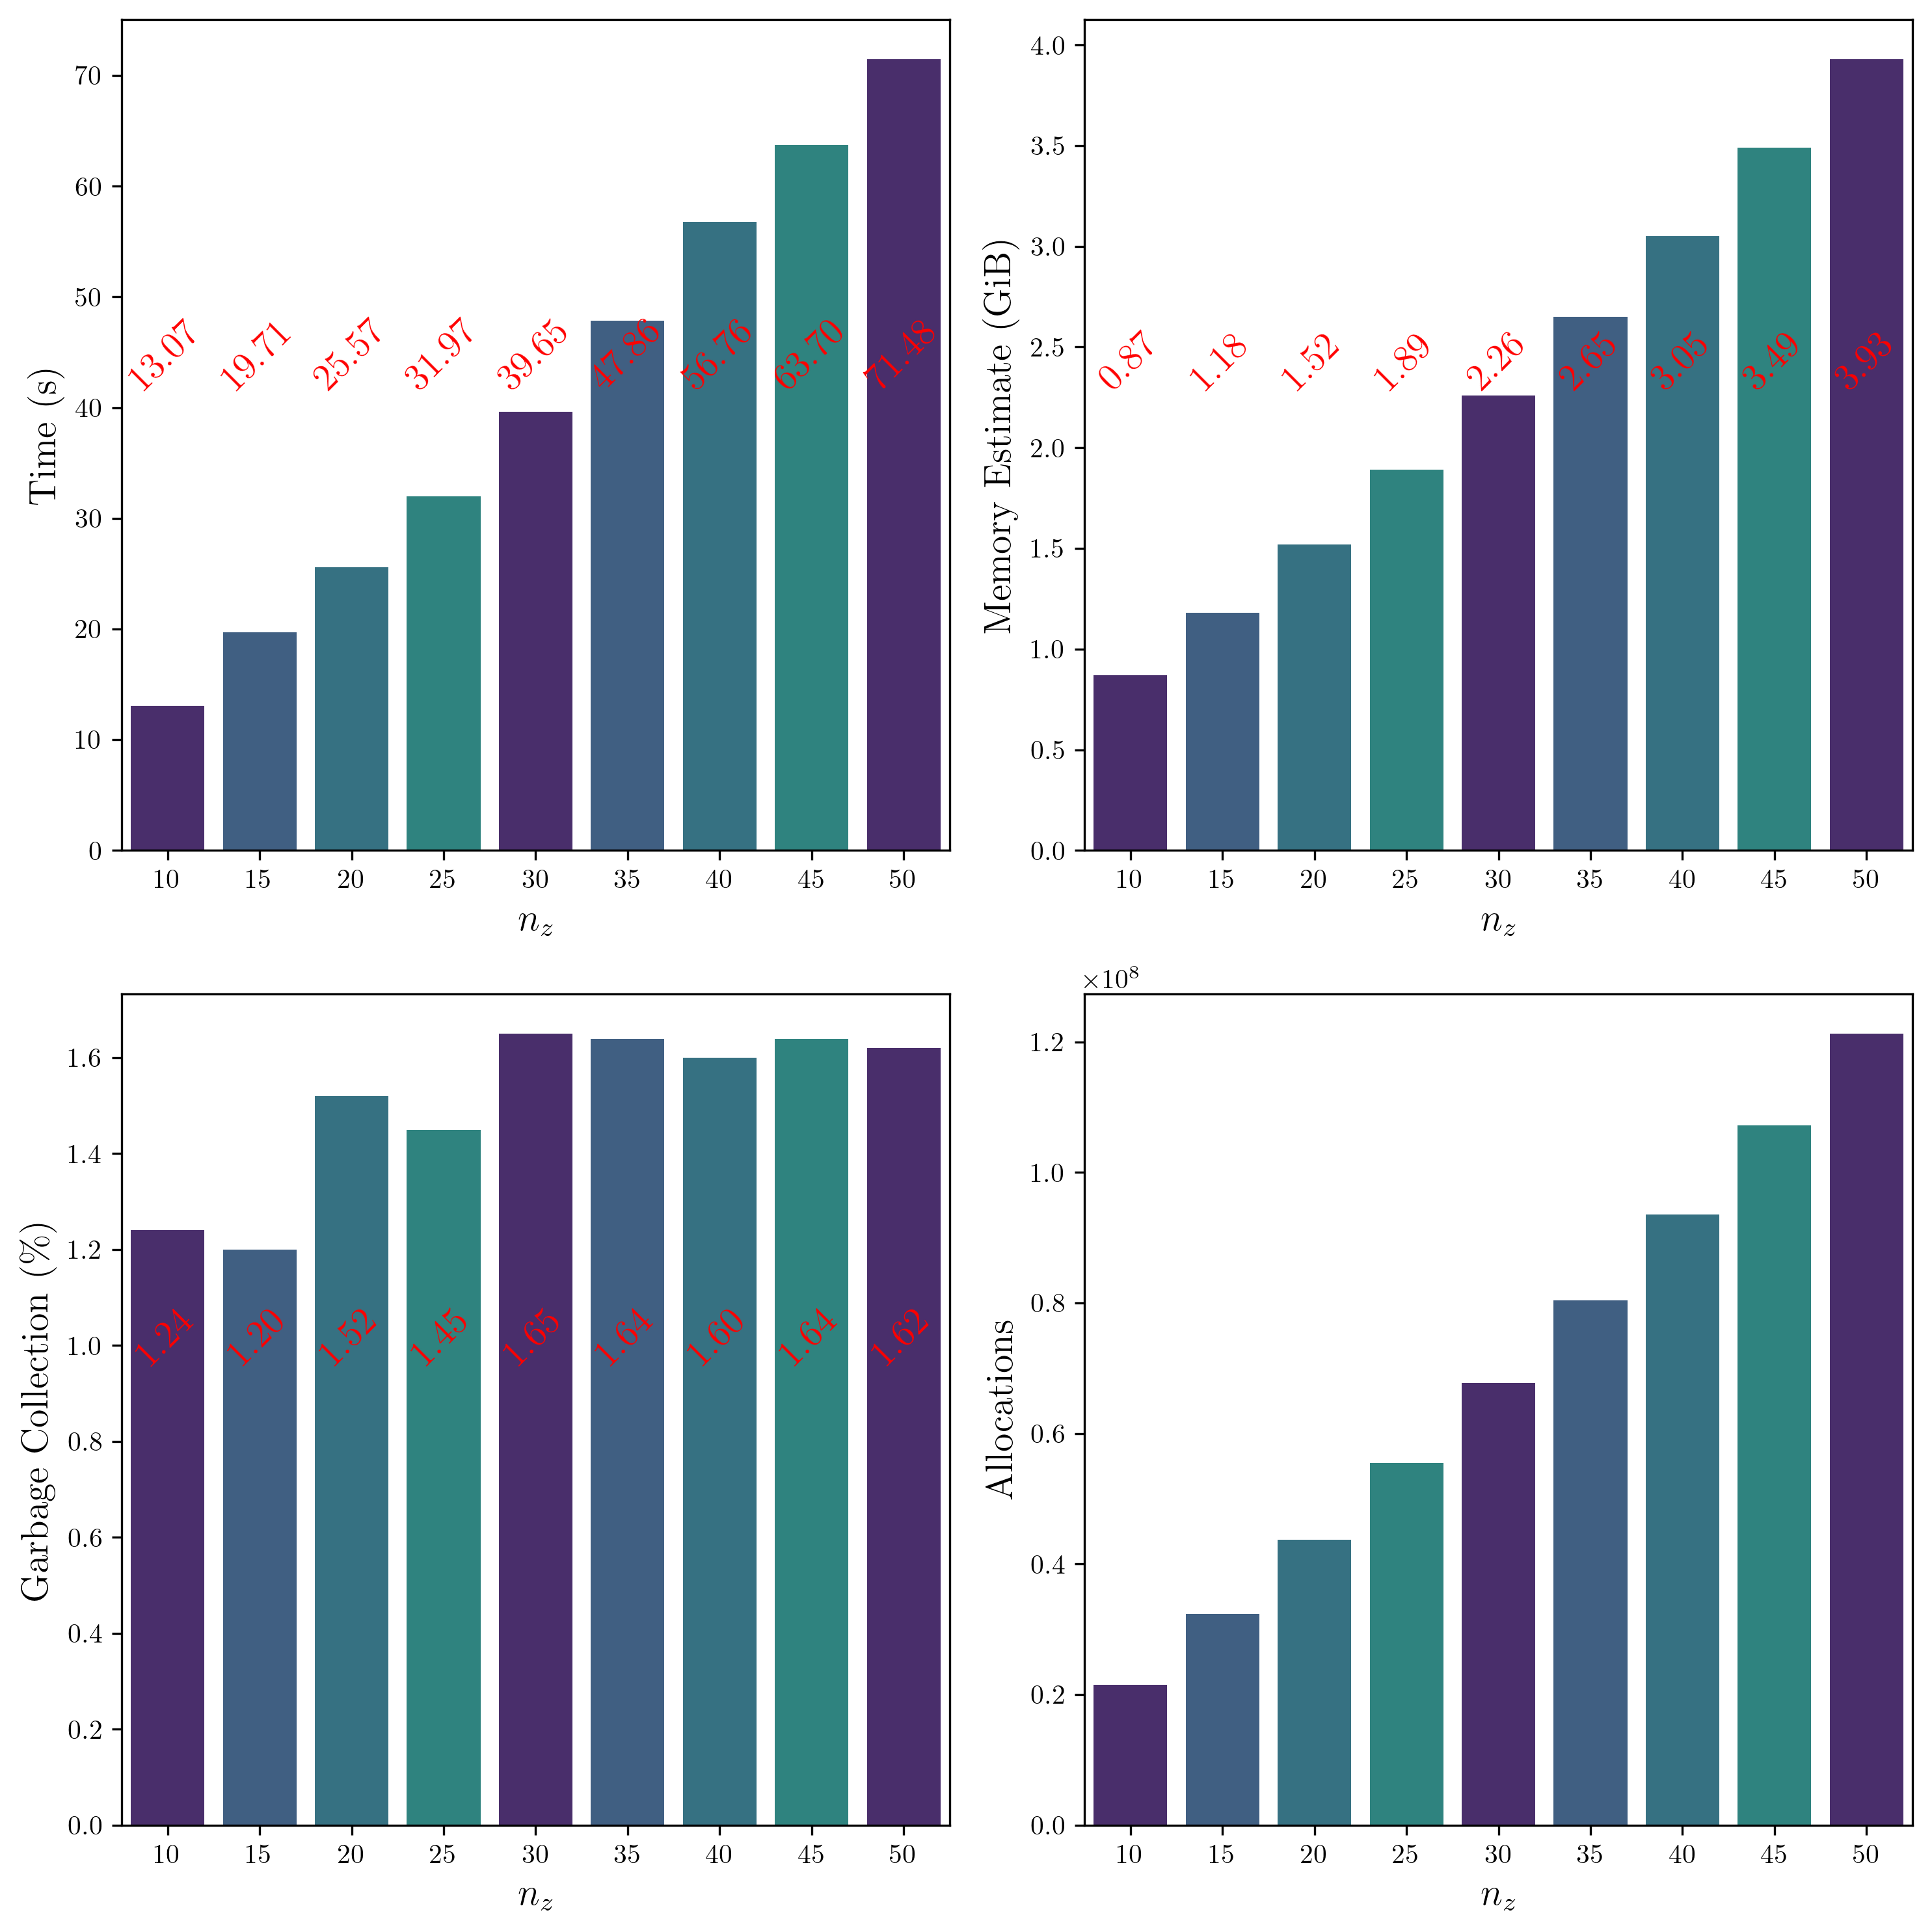
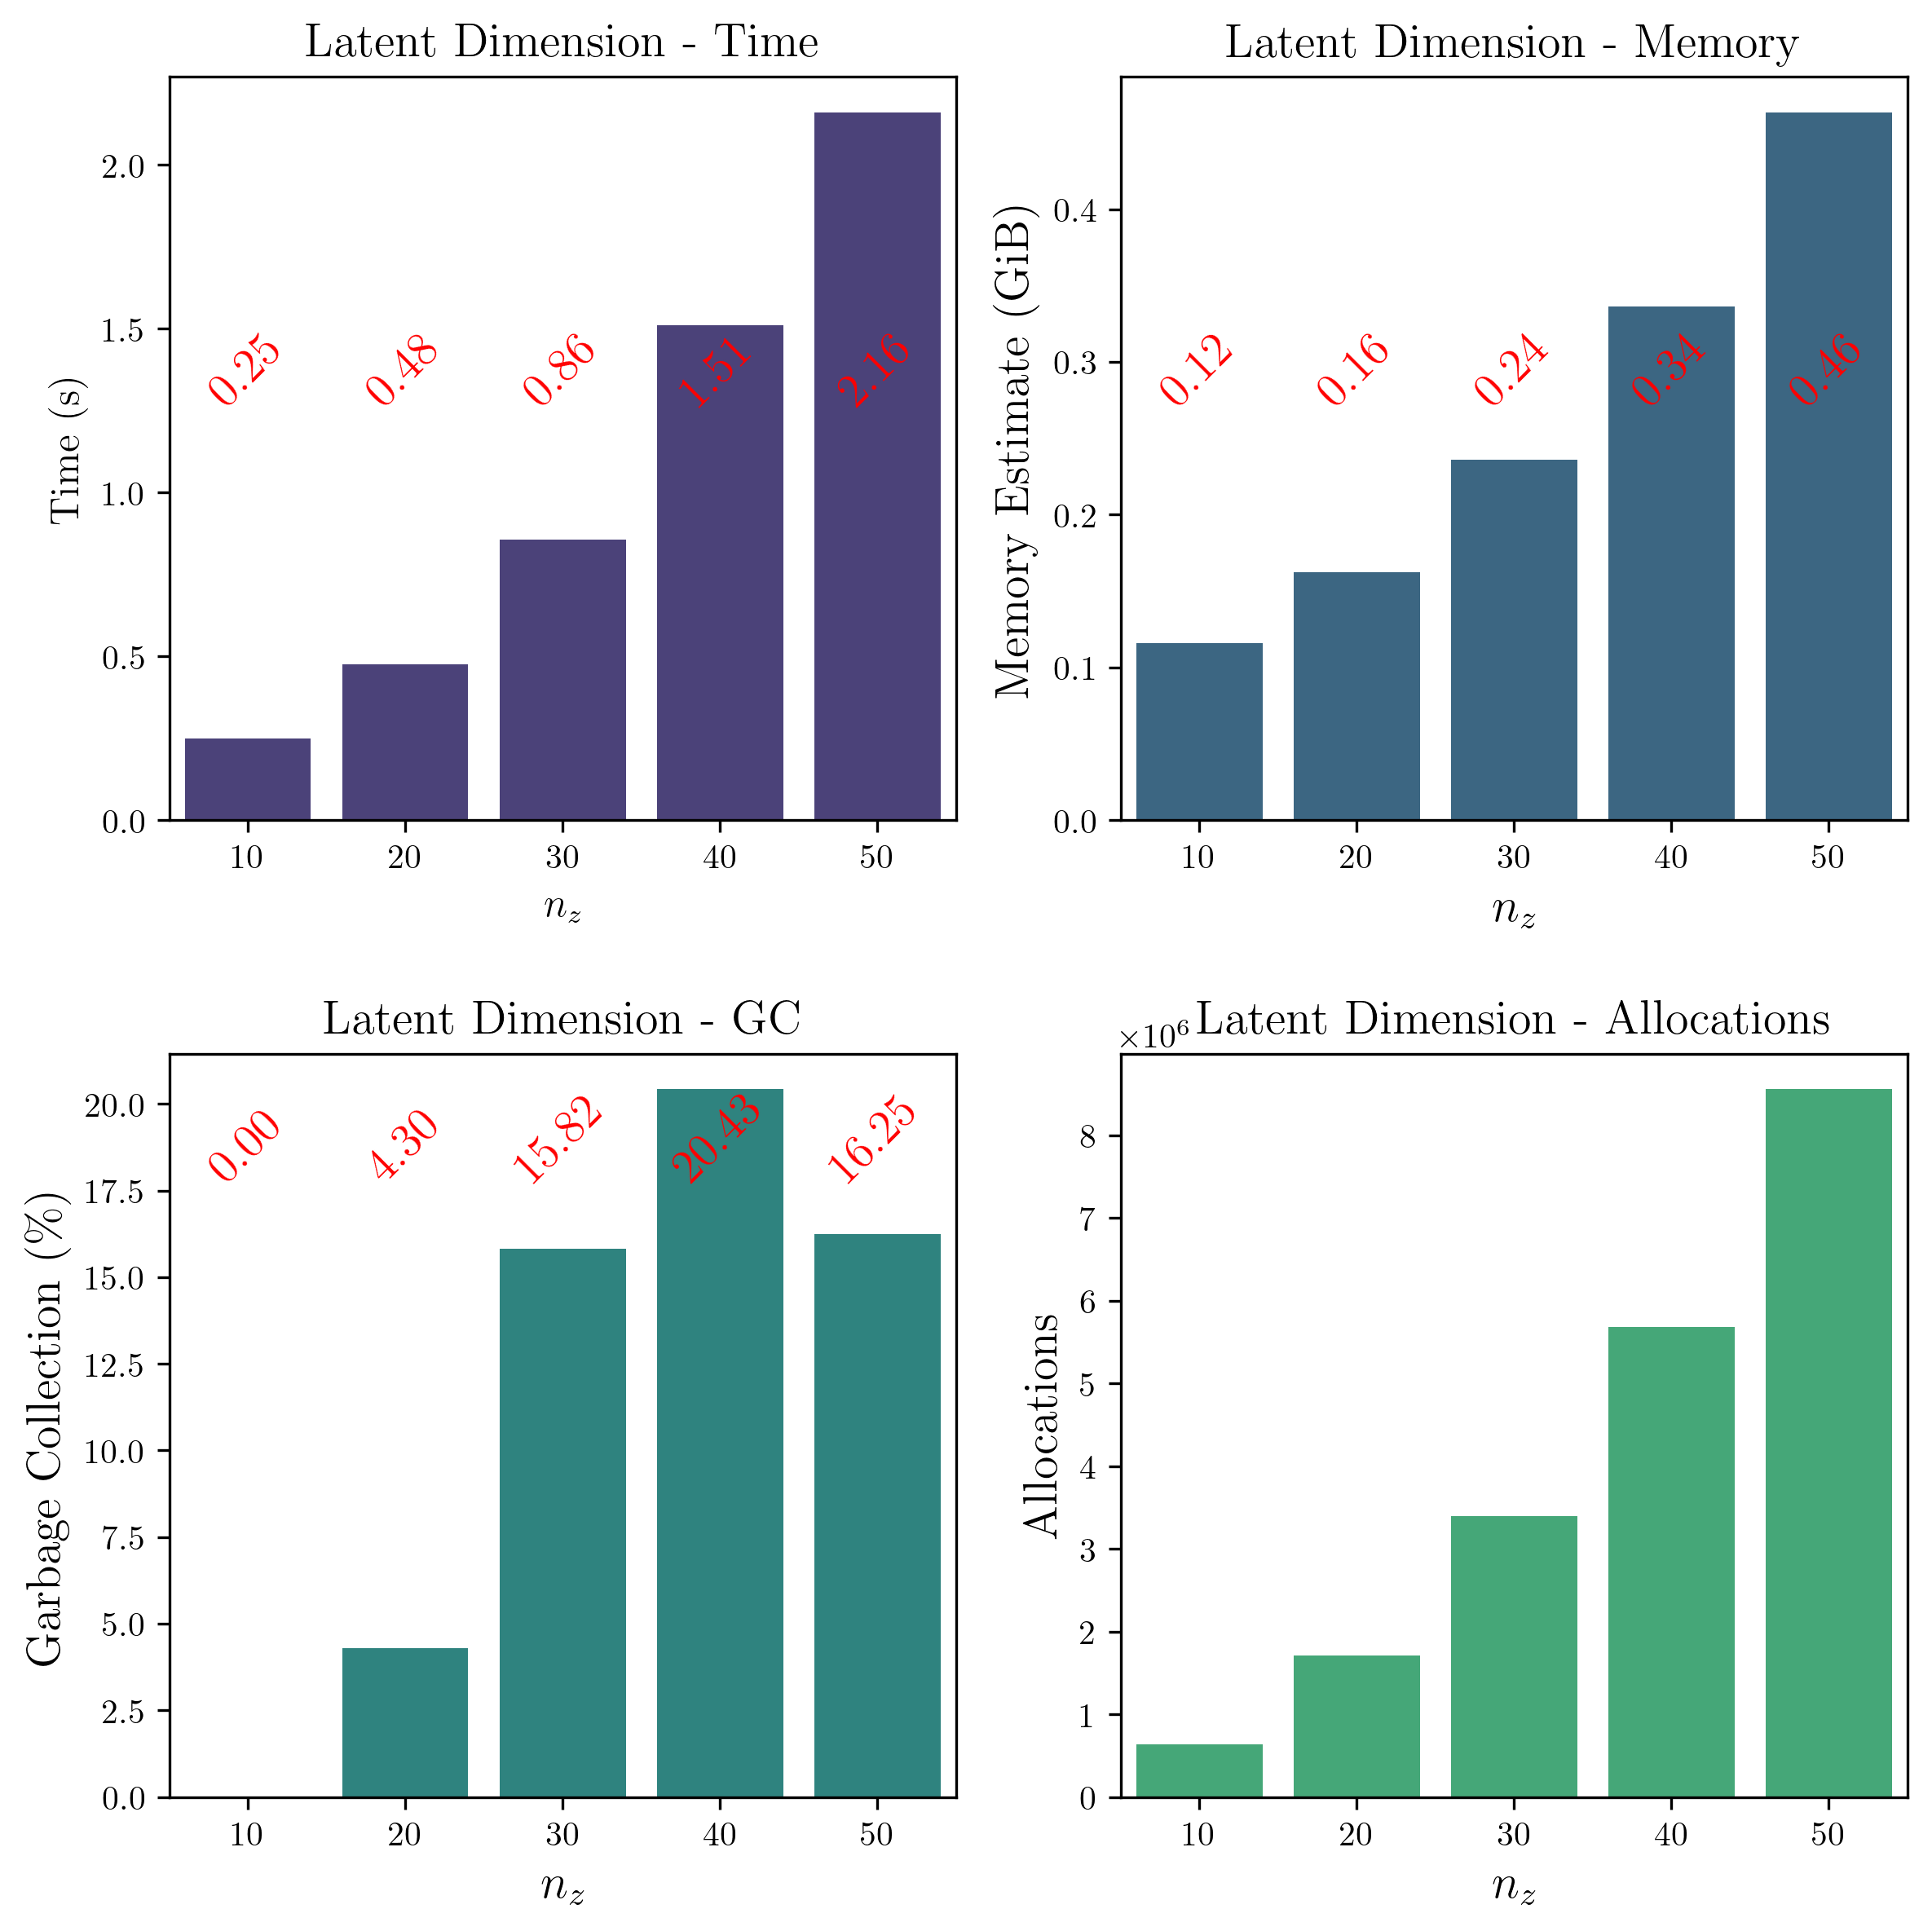
bench marks

diff --git a/plotting/benchmark/plot_cost.py b/plotting/benchmark/plot_cost.py
@@ -1,6 +1,7 @@
 import pandas as pd
 import seaborn as sns
 import matplotlib.pyplot as plt
+import numpy as np
 
 plt.rcParams.update({
     'text.usetex': True, 
@@ -10,39 +11,59 @@ plt.rcParams.update({
     'text.latex.preamble': r'\usepackage{amsmath} \usepackage{amsfonts} \usepackage{amssymb} \usepackage{bm} \newcommand{\probP}{\text{I\kern-0.15em P}}'  
 })
 
-latent_dim = pd.DataFrame({
-    r"$n_z$" : [10, 15, 20, 25, 30, 35, 40, 45, 50],
-    "Time (s)" : [13.075, 19.707, 25.572, 31.971, 39.648, 47.857, 56.762, 63.697, 71.476],
-    "Memory Estimate (GiB)" : [0.870, 1.18, 1.52, 1.89, 2.26, 2.65, 3.05, 3.49, 3.93],
-    "Garbage Collection (%)" : [1.24, 1.20, 1.52, 1.45, 1.65, 1.64, 1.60, 1.64, 1.62], 
-    "Allocations" : [21500020, 32371238, 43698173, 55485415, 67724846, 80420074, 93571538, 107179137, 121242782],
-})
+# Read data from CSV files
+latent_dim_df = pd.read_csv('benches/results/latent_dim.csv')
+temperatures_df = pd.read_csv('benches/results/temperatures.csv')
+prior_steps_df = pd.read_csv('benches/results/prior_steps.csv')
+its_single_df = pd.read_csv('benches/results/ITS_single.csv')
 
+# Extract reference values
 mala_steps_ref = {
-    "Time (s)": 2.972,
-    "Memory Estimate (GiB)": 1.66,
-    "Garbage Collection (%)": 6.68,
-    "Allocations": 1203094
+    "Time (s)": its_single_df.iloc[0]['time_mean'],
+    "Memory Estimate (GiB)": its_single_df.iloc[0]['memory_estimate'],
+    "Garbage Collection (%)": its_single_df.iloc[0]['gc_percent'],
+    "Allocations": its_single_df.iloc[0]['allocations']
 }
 
+# Prepare data for plotting
+latent_dim = pd.DataFrame({
+    r"$n_z$": latent_dim_df['n_z'],
+    "Time (s)": latent_dim_df['time_mean'],
+    "Memory Estimate (GiB)": latent_dim_df['memory_estimate'],
+    "Garbage Collection (%)": latent_dim_df['gc_percent'],
+    "Allocations": latent_dim_df['allocations']
+})
+
 mala_steps = pd.DataFrame({
-    r"$N_{t},\\(N_{\text{local}}=20)$" : [2, 3, 4, 5, 6, 7, 8, 9, 10],
-    "Time (s)" : [6.482, 10.111, 13.434, 17.672, 21.740, 25.657, 29.173, 33.484, 37.891],
-    "Memory Estimate (GiB)" : [2.25, 2.85, 3.45, 4.04, 4.64, 5.24, 5.84, 6.43, 7.02],
-    "Garbage Collection (%)" : [1.87, 1.81, 1.74, 7.69, 8.03, 8.50, 7.82, 8.96, 9.12],
-    "Allocations" : [2133663, 3061363, 3989154, 4916228, 5933549, 6962088, 7989669, 9018787, 10047865],
+    r"$N_{t},\\(N_{\text{local}}=20)$": temperatures_df['N_t'],
+    "Time (s)": temperatures_df['time_mean'],
+    "Memory Estimate (GiB)": temperatures_df['memory_estimate'],
+    "Garbage Collection (%)": temperatures_df['gc_percent'],
+    "Allocations": temperatures_df['allocations']
 })
 
 prior_steps = pd.DataFrame({
-    "N_{prior},(N_t=1)": [10, 20, 30, 40, 50, 60, 80, 90, 100],
-    "Time (s)": [4.069, 4.132, 4.220, 4.230, 4.209, 4.163, 4.181, 4.222, 4.152],
-    "Memory Estimate (GiB)": [1.26, 1.26, 1.26, 1.26, 1.26, 1.26, 1.26, 1.26, 1.26],
-    "Allocations": [1275585, 1275990, 1275567, 1275563, 1275711, 1275724, 1275564, 1275559, 1275561]
+    r"$N_{prior},(N_t=1)$": prior_steps_df['N_l'],
+    "Time (s)": prior_steps_df['time_mean'],
+    "Memory Estimate (GiB)": prior_steps_df['memory_estimate'],
+    "Garbage Collection (%)": prior_steps_df['gc_percent'],
+    "Allocations": prior_steps_df['allocations']
 })
 
-keys = [r"$n_z$", r"$N_{t},\\(N_{\text{local}}=20)$"]
-colours = ["viridis", "cividis"]
-elevations = [0.545, 0.545]
+# Reference for prior_steps (from ITS_single)
+prior_steps_ref = {
+    "Time (s)": its_single_df.iloc[0]['time_mean'],
+    "Memory Estimate (GiB)": its_single_df.iloc[0]['memory_estimate'],
+    "Garbage Collection (%)": its_single_df.iloc[0]['gc_percent'],
+    "Allocations": its_single_df.iloc[0]['allocations']
+}
+
+keys = [r"$n_z$", r"$N_{t},\\(N_{\text{local}}=20)$", r"$N_{prior},(N_t=1)$"]
+colours = ["viridis", "cividis", "plasma"]
+elevations = [0.545, 0.6, 0.6]
+datasets = [latent_dim, mala_steps, prior_steps]
+references = [None, mala_steps_ref, prior_steps_ref]
+titles = ["Latent Dimension", "Power Posteriors", "Prior Steps"]
 
 def add_text_annotations(ax, round=False, elevation=0.45):
     for bar in ax.patches:
@@ -58,79 +79,98 @@ def add_text_annotations(ax, round=False, elevation=0.45):
             rotation=45, fontsize=14
         )
 
-for (idx, df) in enumerate([latent_dim, mala_steps]):
-    fig, axs = plt.subplots(2, 2, figsize=(10, 10))
-    selected_colors = sns.color_palette(colours[idx], len("Time (s)") + 1)
-    colors = [selected_colors[0], selected_colors[2], selected_colors[3], selected_colors[4]]
+for (idx, (df, ref, title)) in enumerate(zip(datasets, references, titles)):
+    fig, axs = plt.subplots(2, 2, figsize=(8, 8))
+    
+    colors = sns.color_palette(colours[idx], n_colors=len(df))
 
     sns.barplot(
         x = keys[idx],
         y = "Time (s)",
         data = df,
         ax = axs[0, 0],
-        palette = colors
+        color=colors[0]
     )
     add_text_annotations(axs[0, 0], round=False, elevation=elevations[idx])
     
-    if idx == 1:  
-        axs[0, 0].axhline(y=mala_steps_ref["Time (s)"], color='red', linestyle='--', 
-                          label='MLE criterion with single posterior ULA sampling')
+    if ref is not None:  
+        if idx == 1:  # MALA steps plot
+            axs[0, 0].axhline(y=ref["Time (s)"], color='red', linestyle='--', 
+                              label='Reference MLE criterion\nwith single posterior\nULA sampling')
+        else:
+            axs[0, 0].axhline(y=ref["Time (s)"], color='red', linestyle='--', 
+                              label='Reference ITS\nwith Mixture Prior')
         axs[0, 0].legend()
 
     axs[0, 0].set_xlabel(keys[idx], fontsize=12)
     axs[0, 0].set_ylabel("Time (s)", fontsize=12)
+    axs[0, 0].set_title(f"{title} - Time", fontsize=14)
     
     sns.barplot(
         x = keys[idx],
         y = "Memory Estimate (GiB)",
         data = df,
         ax = axs[0, 1],
-        palette = colors
+        color=colors[1] if len(colors) > 1 else colors[0]
     )
     add_text_annotations(axs[0, 1], round=False, elevation=elevations[idx])
     
-    if idx == 1:  
-        axs[0, 1].axhline(y=mala_steps_ref["Memory Estimate (GiB)"], color='red', linestyle='--',
-                          label='MLE criterion with single posterior ULA sampling')
+    if ref is not None:  
+        if idx == 1:  # MALA steps plot
+            axs[0, 1].axhline(y=ref["Memory Estimate (GiB)"], color='red', linestyle='--',
+                              label='Reference MLE criterion\nwith single posterior\nULA sampling')
+        else:
+            axs[0, 1].axhline(y=ref["Memory Estimate (GiB)"], color='red', linestyle='--',
+                              label='Reference ITS\nwith Mixture Prior')
         axs[0, 1].legend()
 
     axs[0, 1].set_xlabel(keys[idx], fontsize=14)
     axs[0, 1].set_ylabel("Memory Estimate (GiB)", fontsize=14)
+    axs[0, 1].set_title(f"{title} - Memory", fontsize=14)
 
     sns.barplot(
         x = keys[idx],
         y = "Garbage Collection (%)",
         data = df,
         ax = axs[1, 0],
-        palette = colors
+        color=colors[2] if len(colors) > 2 else colors[0]
     )
-    add_text_annotations(axs[1, 0], round=False, elevation=elevations[idx])
+    add_text_annotations(axs[1, 0], round=False, elevation=elevations[idx] + 0.27)
     
-    # Add reference line for N_t = 1 if this is the mala_steps plot
-    if idx == 1:  # mala_steps plot
-        axs[1, 0].axhline(y=mala_steps_ref["Garbage Collection (%)"], color='red', linestyle='--',
-                          label='MLE criterion with single posterior ULA sampling')
+    if ref is not None:
+        if idx == 1:  # MALA steps plot
+            axs[1, 0].axhline(y=ref["Garbage Collection (%)"], color='red', linestyle='--',
+                              label='Reference MLE criterion\nwith single posterior\nULA sampling')
+        else:
+            axs[1, 0].axhline(y=ref["Garbage Collection (%)"], color='red', linestyle='--',
+                              label='Reference ITS\nwith Mixture Prior')
         axs[1, 0].legend()
 
     axs[1, 0].set_xlabel(keys[idx], fontsize=14)
     axs[1, 0].set_ylabel("Garbage Collection (\%)", fontsize=14)
+    axs[1, 0].set_title(f"{title} - GC", fontsize=14)
     
     sns.barplot(
         x = keys[idx],
         y = "Allocations",
         data = df,
         ax = axs[1, 1],
-        palette = colors
+        color=colors[3] if len(colors) > 3 else colors[0]
     )
     
-    # Add reference line for N_t = 1 if this is the mala_steps plot
-    if idx == 1:  # mala_steps plot
-        axs[1, 1].axhline(y=mala_steps_ref["Allocations"], color='red', linestyle='--',
-                          label='MLE criterion with single posterior ULA sampling')
+    if ref is not None:
+        if idx == 1:  # MALA steps plot
+            axs[1, 1].axhline(y=ref["Allocations"], color='red', linestyle='--',
+                              label='Reference MLE criterion\nwith single posterior\nULA sampling')
+        else:
+            axs[1, 1].axhline(y=ref["Allocations"], color='red', linestyle='--',
+                              label='Reference ITS\nwith Mixture Prior')
         axs[1, 1].legend()
 
     axs[1, 1].set_xlabel(keys[idx], fontsize=14)
     axs[1, 1].set_ylabel("Allocations", fontsize=14)
+    axs[1, 1].set_title(f"{title} - Allocations", fontsize=14)
     
     plt.tight_layout()
     plt.savefig(f"figures/benchmark/plot_cost_{idx}.png", dpi=300, bbox_inches='tight')
+    plt.close()